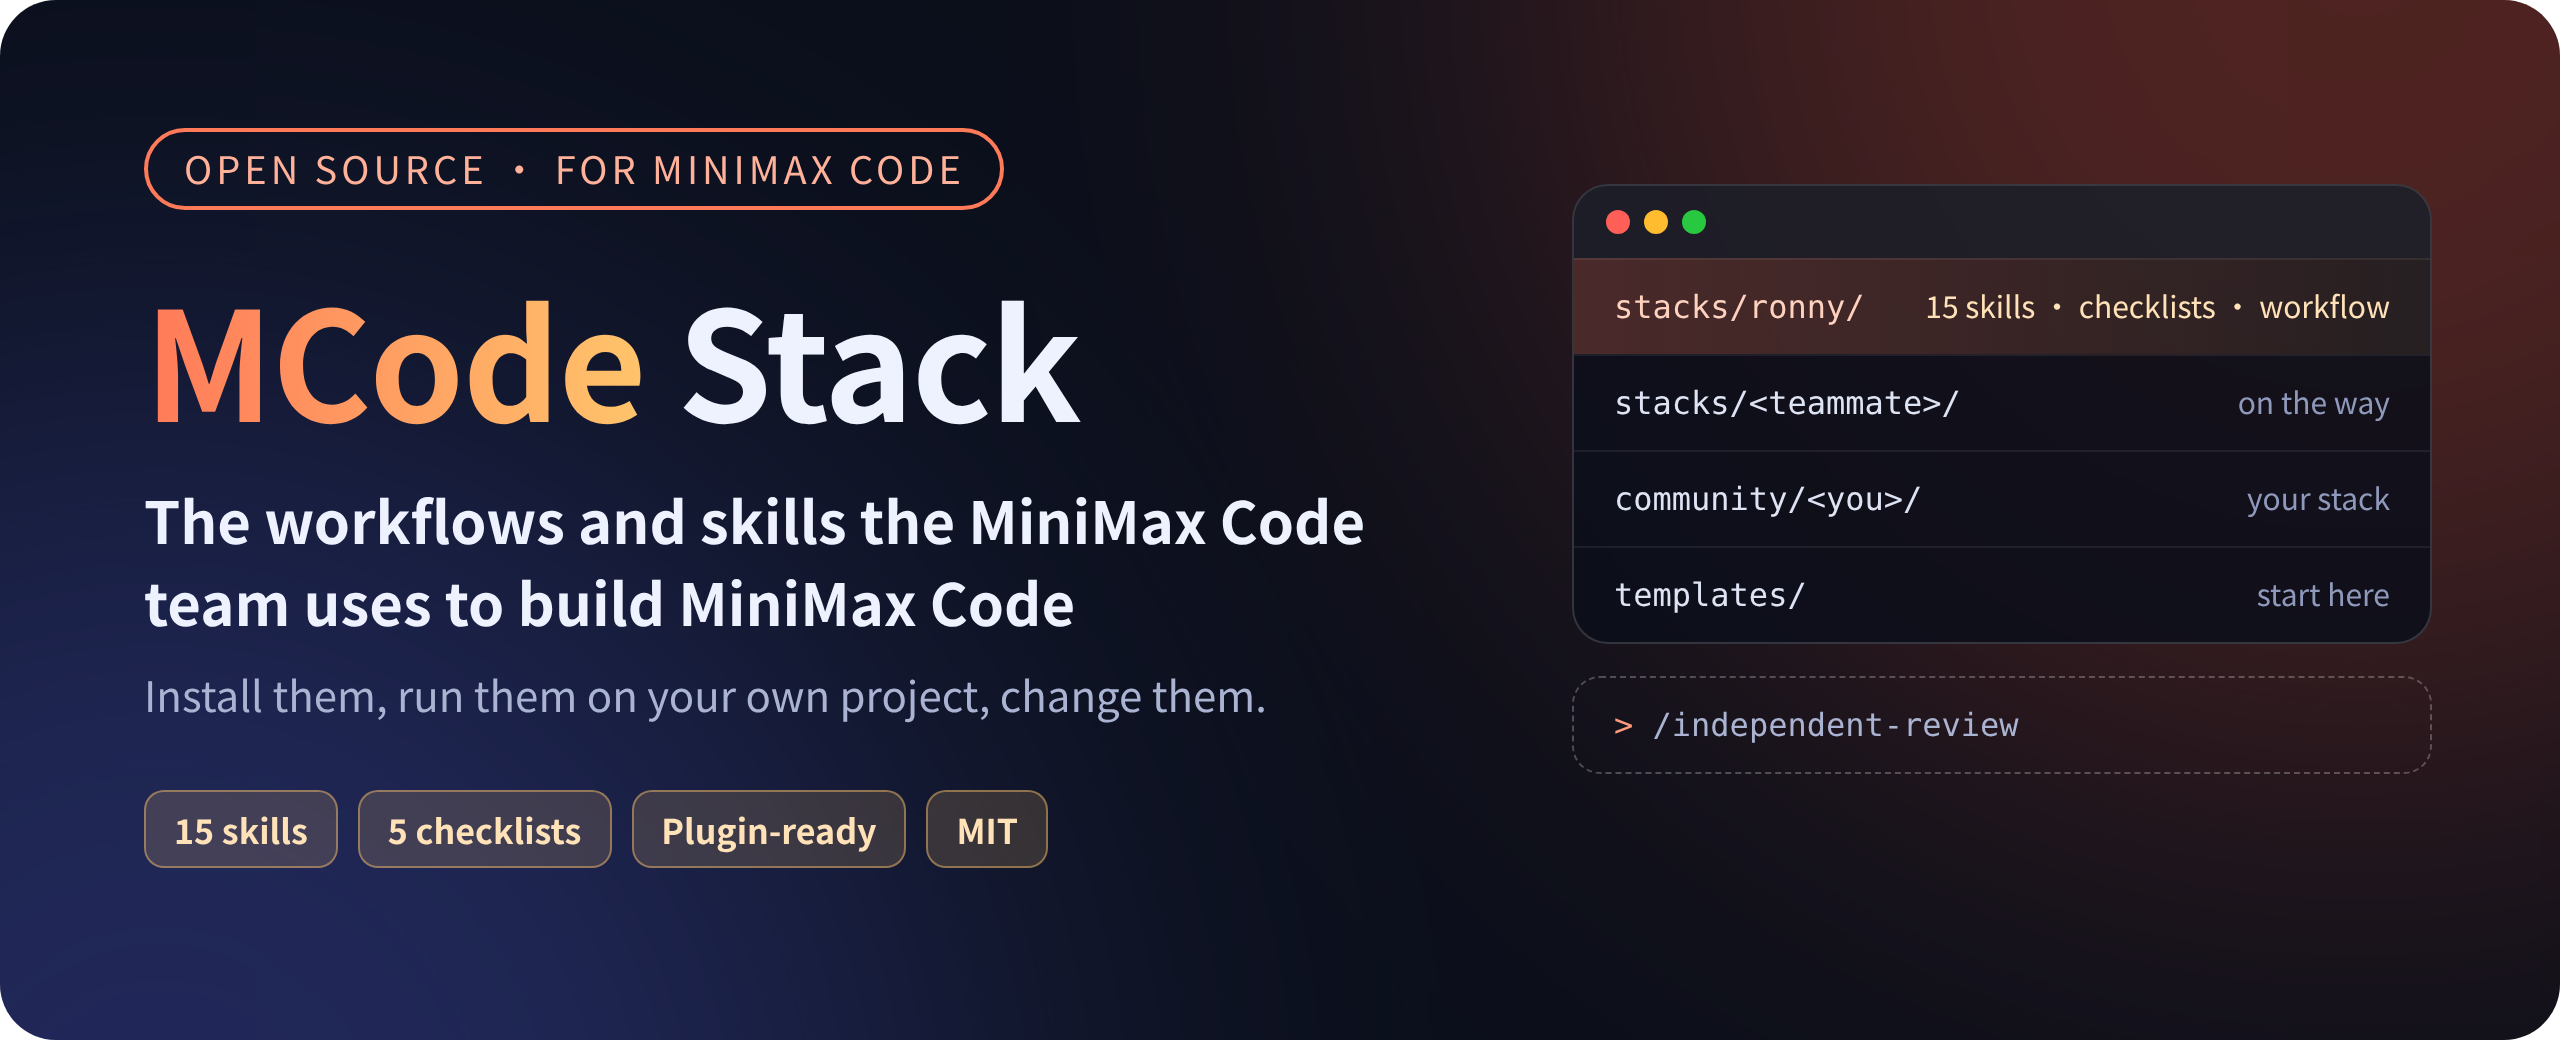
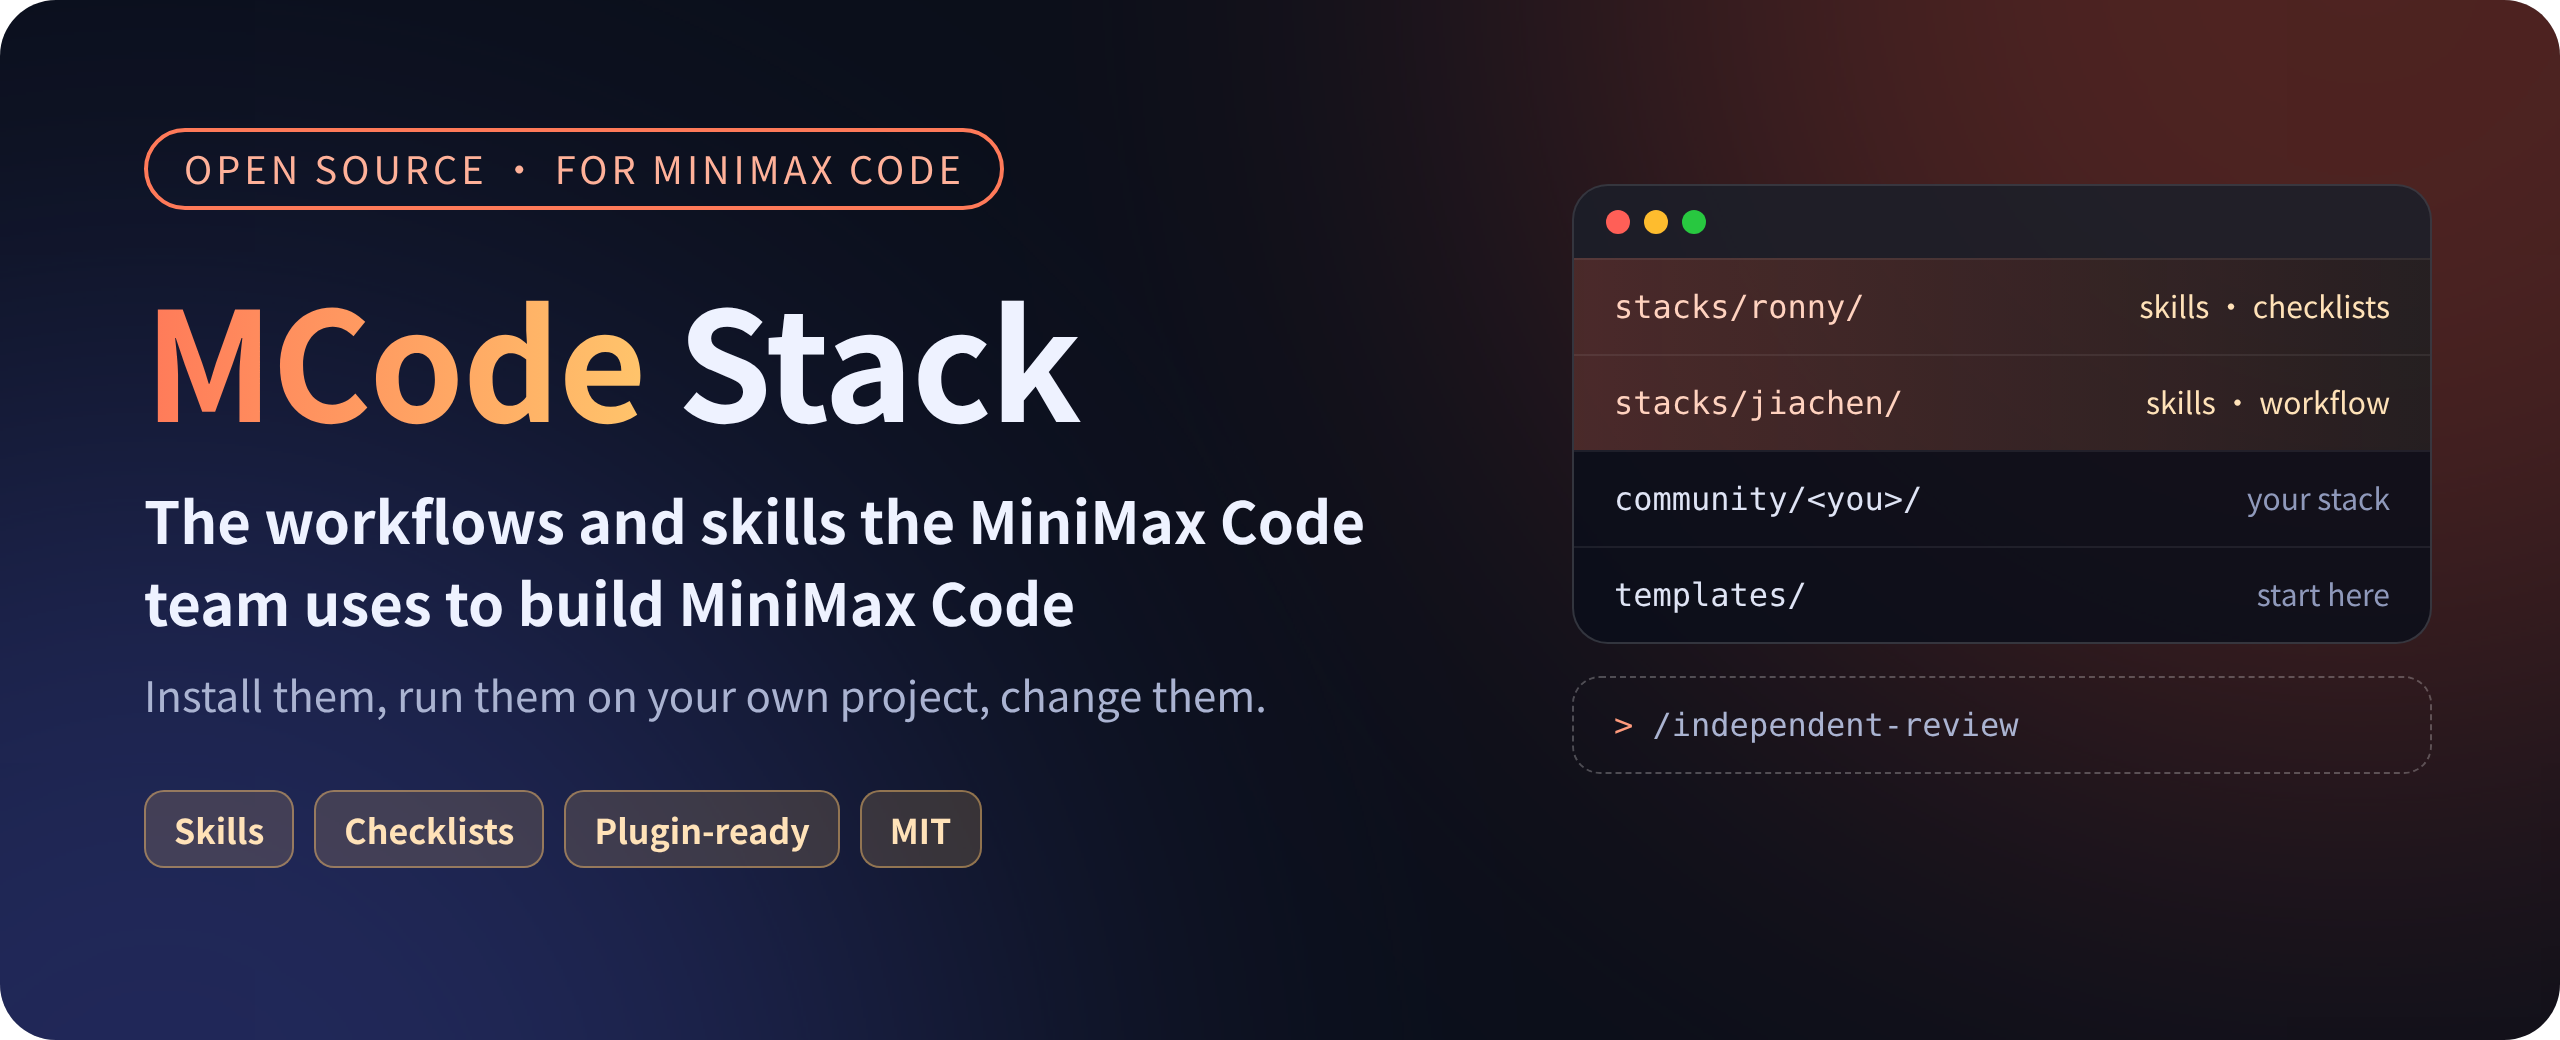
Drop hard-coded counts from READMEs and images
- Skills badge no longer shows a number
- READMEs, stacks/README, ronny README and NOTICE describe skills without counts
- Regenerate hero, how-it-works and skills-map (EN and ZH) in the same style: no counts, both stacks shown, no 'on the way' placeholder, no WORKFLOW.md for ronny
- Bump ronny to 0.2.3

Changed region(s): [[0.5938, 0.3385, 0.9375, 0.4308], [0.0625, 0.7385, 0.4062, 0.8615], [0.75, 0.2769, 0.9375, 0.3077]]

diff --git a/README_ZH.md b/README_ZH.md
@@ -5,7 +5,7 @@
 <p align="center">
   <a href="LICENSE"><img alt="License: MIT" src="https://img.shields.io/badge/license-MIT-blue.svg"></a>
   <a href="https://github.com/MiniMax-AI/mcode-stack/actions/workflows/validate.yml"><img alt="validate" src="https://github.com/MiniMax-AI/mcode-stack/actions/workflows/validate.yml/badge.svg"></a>
-  <a href="stacks/"><img alt="skills: 17" src="https://img.shields.io/badge/skills-17-ff7a59.svg"></a>
+  <a href="stacks/"><img alt="skills: stacks/" src="https://img.shields.io/badge/skills-stacks%2F-ff7a59.svg"></a>
   <a href="https://github.com/MiniMax-AI/minimax-code"><img alt="for MiniMax Code" src="https://img.shields.io/badge/for-MiniMax%20Code-5b6cff.svg"></a>
 </p>
 
@@ -70,7 +70,7 @@ MiniMax Code 会自动发现这几个目录里的 Skill（每个 Skill 一个子
 ## 里面有什么
 
 <p align="center">
-  <img src="docs/assets/skills-map-zh.png" alt="stacks/ronny 的 15 个 Skill，按一天里的场景分组" width="100%">
+  <img src="docs/assets/skills-map-zh.png" alt="stacks/ronny 的 Skill 按一天里的场景分组，以及 stacks/jiachen 里的 Skill" width="100%">
 </p>
 
 | 场景 | Skill | 做什么 |
@@ -91,7 +91,7 @@ MiniMax Code 会自动发现这几个目录里的 Skill（每个 Skill 一个子
 | | [`trajectory-review`](stacks/ronny/skills/trajectory-review/SKILL.md) | 不只看结果过没过，回头看 agent 是怎么得到这个结果的 |
 | | [`engineering-emergency-changes`](stacks/ronny/skills/engineering-emergency-changes/SKILL.md) | 判断 hotfix 是不是真紧急，紧急时怎么快审又不丢质量 |
 
-上表是 [`stacks/ronny`](stacks/ronny/) 的内容。[`stacks/jiachen`](stacks/jiachen/) 另有两个 Skill：[`lifting-loops`](stacks/jiachen/skills/lifting-loops/SKILL.md) 找出你总在给 agent 当「人工环节」的那些循环，帮你从里面抽身；[`making-content`](stacks/jiachen/skills/making-content/SKILL.md) 把笔记和素材做成小红书图文和竖版短视频。
+上表是 [`stacks/ronny`](stacks/ronny/) 的内容。[`stacks/jiachen`](stacks/jiachen/) 里还有：[`lifting-loops`](stacks/jiachen/skills/lifting-loops/SKILL.md) 找出你总在给 agent 当「人工环节」的那些循环，帮你从里面抽身；[`making-content`](stacks/jiachen/skills/making-content/SKILL.md) 把笔记和素材做成小红书图文和竖版短视频。
 
 每个 stack 里一般有三类东西：
 
@@ -151,4 +151,4 @@ MiniMax Code 本体在 [MiniMax-AI/minimax-code](https://github.com/MiniMax-AI/m
 
 ## License
 
-[MIT](LICENSE)，各 stack 的 `NOTICE.md` 另有说明的除外。六个 `engineering-*` Skill 改编自 Google Engineering Practices，改编部分仍遵循 CC-BY 3.0，详见 [`stacks/ronny/NOTICE.md`](stacks/ronny/NOTICE.md)。
+[MIT](LICENSE)，各 stack 的 `NOTICE.md` 另有说明的除外。`engineering-*` 系列 Skill 改编自 Google Engineering Practices，改编部分仍遵循 CC-BY 3.0，详见 [`stacks/ronny/NOTICE.md`](stacks/ronny/NOTICE.md)。

diff --git a/README.md b/README.md
@@ -5,7 +5,7 @@
 <p align="center">
   <a href="LICENSE"><img alt="License: MIT" src="https://img.shields.io/badge/license-MIT-blue.svg"></a>
   <a href="https://github.com/MiniMax-AI/mcode-stack/actions/workflows/validate.yml"><img alt="validate" src="https://github.com/MiniMax-AI/mcode-stack/actions/workflows/validate.yml/badge.svg"></a>
-  <a href="stacks/"><img alt="skills: 17" src="https://img.shields.io/badge/skills-17-ff7a59.svg"></a>
+  <a href="stacks/"><img alt="skills: stacks/" src="https://img.shields.io/badge/skills-stacks%2F-ff7a59.svg"></a>
   <a href="https://github.com/MiniMax-AI/minimax-code"><img alt="for MiniMax Code" src="https://img.shields.io/badge/for-MiniMax%20Code-5b6cff.svg"></a>
 </p>
 
@@ -89,7 +89,7 @@ other agents that support skills.
 ## What's inside
 
 <p align="center">
-  <img src="docs/assets/skills-map.png" alt="The 15 skills in stacks/ronny, grouped by moment in the day" width="100%">
+  <img src="docs/assets/skills-map.png" alt="The skills in stacks/ronny, grouped by moment in the day, plus what stacks/jiachen adds" width="100%">
 </p>
 
 | When | Skill | What it does |
@@ -111,7 +111,7 @@ other agents that support skills.
 | | [`engineering-emergency-changes`](stacks/ronny/skills/engineering-emergency-changes/SKILL.md) | Decide whether a hotfix is a real emergency and run expedited review safely |
 
 The table above is [`stacks/ronny`](stacks/ronny/).
-[`stacks/jiachen`](stacks/jiachen/) adds two more skills:
+[`stacks/jiachen`](stacks/jiachen/) adds
 [`lifting-loops`](stacks/jiachen/skills/lifting-loops/SKILL.md), which finds
 the loops where you keep acting as a manual step for your agents and lifts you
 out of them, and [`making-content`](stacks/jiachen/skills/making-content/SKILL.md),
@@ -191,7 +191,7 @@ repository only holds workflows and skills, no MiniMax Code source code.
 
 ## License
 
-[MIT](LICENSE), except where a stack's `NOTICE.md` says otherwise. The six
+[MIT](LICENSE), except where a stack's `NOTICE.md` says otherwise. The
 `engineering-*` skills are adapted from Google Engineering Practices; the
 adapted material stays under CC-BY 3.0. See
 [`stacks/ronny/NOTICE.md`](stacks/ronny/NOTICE.md).

diff --git a/stacks/README.md b/stacks/README.md
@@ -4,10 +4,10 @@ Each directory here is one MiniMax Code team member's stack: the workflows
 and skills they actually use to build MiniMax Code. Each stack is also a
 MiniMax Code plugin package.
 
-| Stack | Owner | Status |
+| Stack | Owner | What it has |
 | --- | --- | --- |
-| [`ronny`](ronny/) | Ronny, R&D lead | 15 skills, 5 checklists |
-| [`jiachen`](jiachen/) | Jiachen, engineer | 2 skills |
+| [`ronny`](ronny/) | Ronny, R&D lead | Skills and plain-text checklists |
+| [`jiachen`](jiachen/) | Jiachen, engineer | Skills and a `WORKFLOW.md` |
 
 Teammates are welcome to add their own; see below.
 

diff --git a/stacks/ronny/README.md b/stacks/ronny/README.md
@@ -33,7 +33,7 @@ shown by `mcode plugin marketplace list`, or copy single skills into
 
 ### Engineering practice
 
-Six everyday engineering skills, also published in
+Everyday engineering skills, also published in
 [agentara/skills](https://github.com/agentara/skills/tree/main/skills/engineering)
 and adapted from Google Engineering Practices (CC-BY 3.0). See
 [`NOTICE.md`](NOTICE.md) for licenses.

diff --git a/stacks/ronny/NOTICE.md b/stacks/ronny/NOTICE.md
@@ -1,6 +1,6 @@
 # Third-party notices
 
-The six `engineering-*` skills in [`skills/`](skills/) were written by the
+The `engineering-*` skills in [`skills/`](skills/) were written by the
 stack's author and first published in
 [agentara/skills](https://github.com/agentara/skills/tree/main/skills/engineering).
 
